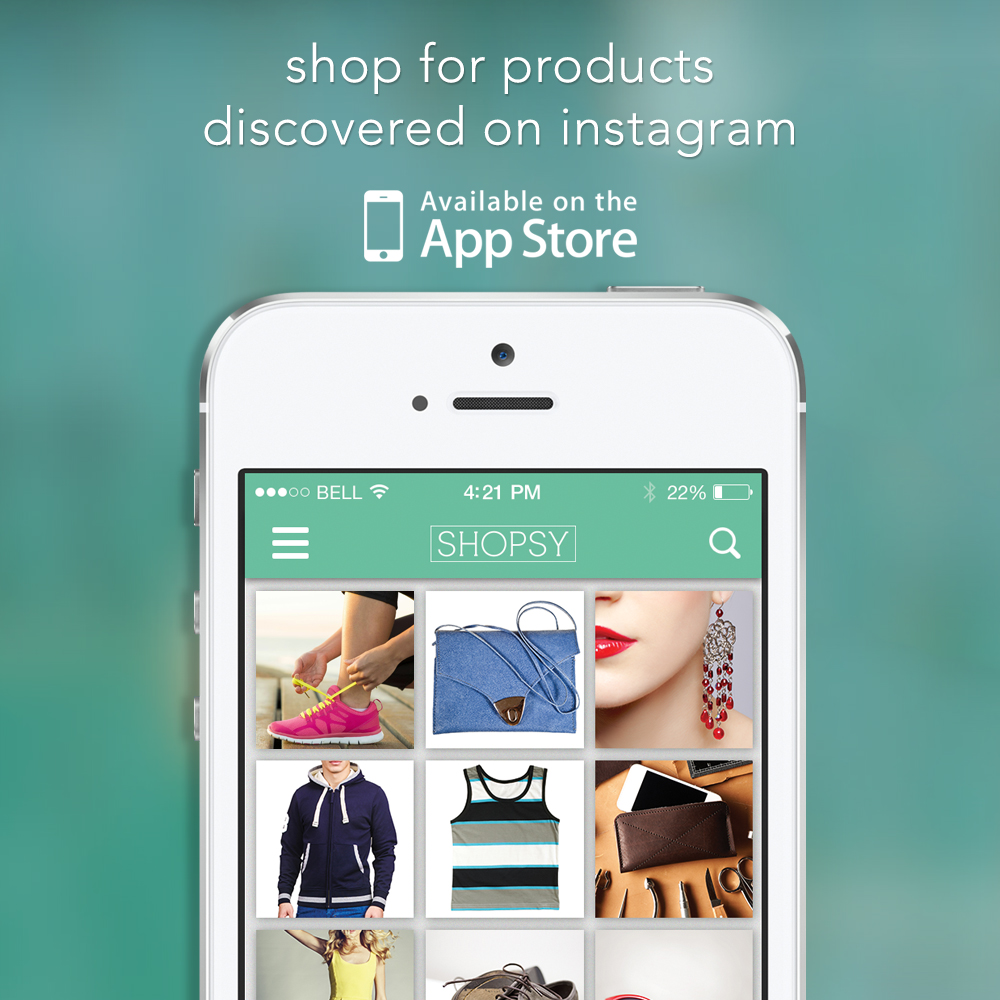
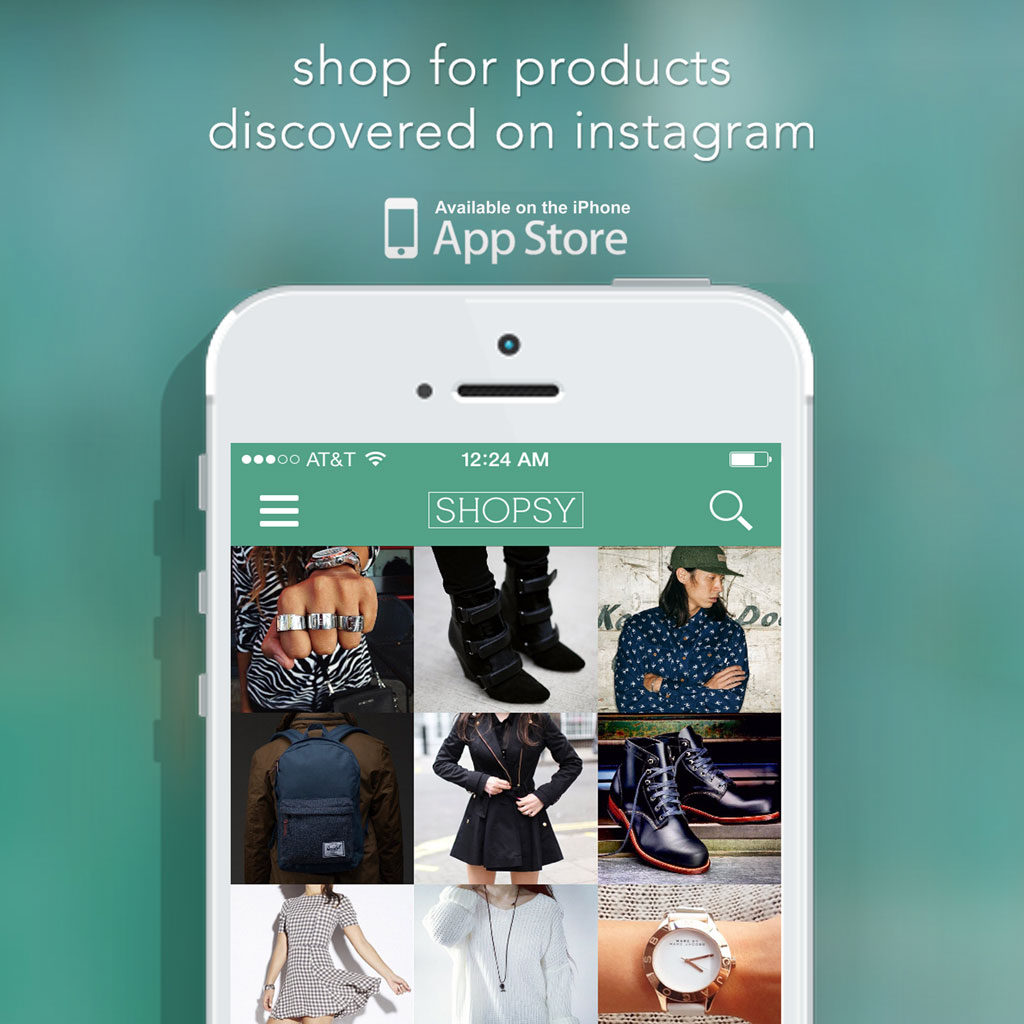
updating some images and styling notifications counter

diff --git a/app/Instashop/Instashop/HomeViewController.m b/app/Instashop/Instashop/HomeViewController.m
@@ -97,14 +97,22 @@
 -(void)notificationsCountDidFinishWithDictionary:(NSDictionary *)theDictionary
 {
     self.notificationsCountLabel.text = [NSString stringWithFormat:@"%d", [[theDictionary objectForKey:@"count"] integerValue]];
+    self.notificationsCountLabel.layer.cornerRadius = 6.0;
+    self.notificationsCountLabel.layer.masksToBounds = YES;
+    self.notificationsCountLabel.backgroundColor = [UIColor darkGrayColor];
+    self.notificationsCountLabel.textAlignment = NSTextAlignmentCenter;
     
     if ([[theDictionary objectForKey:@"count"] integerValue] > 0)
     {
         //bigger than zero for style.
+        self.notificationsCountLabel.textColor = [UIColor whiteColor];
+        self.notificationsCountLabel.font = [UIFont boldSystemFontOfSize:12];
     }
     else
     {
         //zero for style
+        self.notificationsCountLabel.textColor = [UIColor lightGrayColor];
+        self.notificationsCountLabel.font = [UIFont systemFontOfSize:12];
     }
     
     
